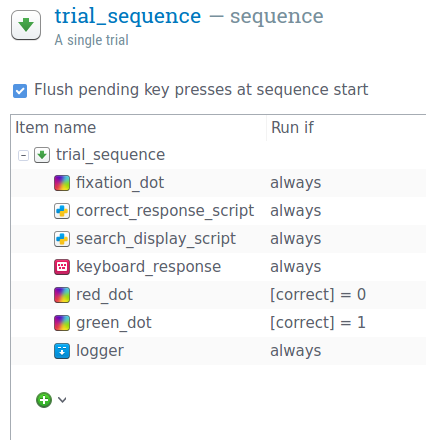
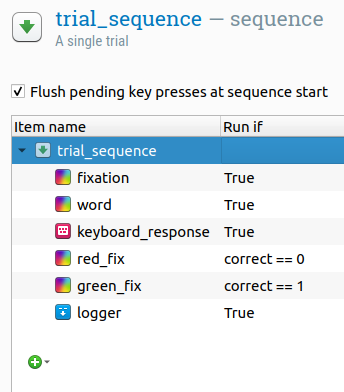
First updates for 4.0.0

Changed region(s): [[0.0291, 0.1837, 1.0, 0.8265], [0.0291, 0.0, 0.9593, 0.1224], [0.0872, 0.8878, 0.1453, 0.949]]

diff --git a/content/pages/manual/variables.md b/content/pages/manual/variables.md
@@ -6,9 +6,9 @@ title: Variables
 
 Experimental variables in OpenSesame are those variables that:
 
-- You can refer to in the user interface with the '[variable_name]' syntax.
-- You can refer to in a Python INLINE_SCRIPT with the `var.variable_name` syntax.
-- You can refer to in a JavaScript INLINE_JAVASCRIPT with the `vars.variable_name` syntax.
+- You can refer to in the user interface with the '{variable_name}' syntax.
+- Are available as global variables in a Python INLINE_SCRIPT.
+- Are available as global variables in a JavaScript INLINE_JAVASCRIPT.
 - Contain things like:
 	- The variables that you have defined in a LOOP item.
 	- The responses that you have collected.
@@ -90,15 +90,16 @@ Feedback variables maintain a running average of accuracy and response times.
 |`accuracy`						|The average percentage of correct responses. This is variable is useful for presenting feedback to the participant.|
 |`acc`							|Synonym for `accuracy`|
 
+
 ## Using variables in the user interface
 
-Wherever you see a value in the user interface, you can replace that value by a variable using the '[variable name]' notation. For example, if you have defined a variable `soa` in a LOOP item, you can use this variable for the duration of a sketchpad as shown in %FigSketchpad.
+Wherever you see a value in the user interface, you can replace that value by a variable using the '{variable name}' notation. For example, if you have defined a variable `soa` in a LOOP item, you can use this variable for the duration of a sketchpad as shown in %FigSketchpad.
 
 %--
 figure:
  id: FigSketchpad
  source: variable-duration.png
- caption: The duration '[soa]' indicates that the duration of the SKETCHPAD depends on the variable `soa`.
+ caption: The duration '{soa}' indicates that the duration of the SKETCHPAD depends on the variable `soa`.
 --%
 
 This works throughout the user interface. For example, if you have the defined a variable `my_freq`, you can use this variable as the frequency in a SYNTH item, as shown in %FigSynth.
@@ -107,7 +108,7 @@ This works throughout the user interface. For example, if you have the defined a
 figure:
  id: FigSynth
  source: variable-frequency.png
- caption: The frequency '[my_freq]' indicates that the frequency of the SYNTH depends on the variable `my_freq`.
+ caption: The frequency '{my_freq}' indicates that the frequency of the SYNTH depends on the variable `my_freq`.
 --%
 
 Sometimes, the user interface doesn't let you type in arbitrary text. For example, the elements of a SKETCHPAD are shown visually, and you cannot directly change an X coordinate to a variable. However, you can click on the *Select view → View script* button on the top right, and edit the script directly.
@@ -121,44 +122,72 @@ draw fixdot x=0 y=0
 … to a position defined by the variables `xpos` and `ypos`:
 
 ```text
-draw fixdot x=[xpos] y=[ypos]
-```text
+draw fixdot x={xpos} y={ypos}
+```
+
+
+## Using Python expressions in the user interface
+
+When referring to variables using the `{my_var}` notation, you are in fact using a so-called [f-string](https://peps.python.org/pep-0498/), which is a way to embed Python code in strings of text. You can also use f-strings to evaluate arbitrary Python code. For example, you can multiply the variables `width` and `height` and include the result in a SKETCHPAD, like so:
+
+%--
+figure:
+ id: FigFString
+ source: fstrings.png
+ caption: You can embed Python expressions using f-strings.
+--%
+
+f-strings are Python code, and are therefore only supported on the desktop, but see below for a JavaScript alternative for browser experiments.
+
+
+## Using JavaScript expressions in the user interface
+
+When using OSWeb, expressions included between curly braces are interpreted as [template literals](https://developer.mozilla.org/en-US/docs/Web/JavaScript/Reference/Template_literals). This is very similar to f-strings in Python, with the important difference that it uses JavaScript.
+
+In normal JavaScript, expressions inside template literals are prefixed with a `$`, like so: `${expression}`. This is allowed in OpenSesame but not necessary: the prefix is automatically added to improve compatibility between browser and desktop experiments. In most cases, as in the figure below, the exact same expression is valid as a Python f-string on the desktop and a JavaScript template literal in the browser.
+
+
+%--
+figure:
+ id: FigTempalteLiteral
+ source: template-literals.png
+ caption: You can embed JavaScript expressions using template literals.
+--%
+
 
 ## Using variables in Python
 
-In an INLINE_SCRIPT, you can access experimental variables through the `var` object. For example, if you have defined `example_variable` in a LOOP, then the following will print the value `example_variable` to the debug window:
+In an INLINE_SCRIPT, experimental variables are available as global variables. For example, if you have defined `example_variable` in a LOOP, then the following will print the value `example_variable` to the debug window:
 
 ~~~ .python
-print(var.example_variable)
+print(example_variable)
 ~~~
 
 You can set the experimental variable `example_variable` to the value 'some value' as follows:
 
 ~~~ .python
-var.example_variable = 'some value'
+example_variable = 'some value'
 ~~~
 
-For more information, see:
-
-- %link:manual/python/var%
 
 ## Using variables in JavaScript
 
-In an INLINE_JAVASCRIPT, you can access experimental variables through the `vars` object. For example, if you have defined `example_variable` in a LOOP, then the following will print the value `example_variable` to the debug window:
+In an INLINE_JAVASCRIPT, experimental variables are available as global variables. For example, if you have defined `example_variable` in a LOOP, then the following will print the value `example_variable` to the browser console:
 
 ```js
-console.log(vars.example_variable)
+console.log(example_variable)
 ```
 
 You can set the experimental variable `example_variable` to the value 'some value' as follows:
 
 ```js
-vars.example_variable = 'some value'
+example_variable = 'some value'
 ```
+
 
 ## Using conditional ("if") statements
 
-Conditional statements, or 'if statements', provide a way to indicate that something should happen only under specific circumstances, such when some variable has a specific value.
+Conditional statements, or 'if statements', provide a way to indicate that something should happen only under specific circumstances, such when some variable has a specific value. Conditional statements are regular Python expressions.
 
 The most commonly used if-statement in OpenSesame is the run-if statement of the SEQUENCE, which allows you to specify the conditions under which a particular element is executed. If you open a SEQUENCE item, you see that every item from the sequence has a 'Run if …'' option. The default value is 'always', which means that the item is always run; but you can also enter a condition here. For example, if you want to show a green fixation dot after a correct response, and a red fixation dot after an incorrect response, you can create a SEQUENCE like the following (this makes use of the fact that a KEYBOARD_RESPONSE item automatically sets the `correct` variable, as discussed above) as shown in %FigRunIf.
 
@@ -174,20 +203,12 @@ figure:
 
 You can use more complex conditions as well. Let's take a look at a few examples:
 
-	[correct] = 1 and [response_time] > 2000
-	[correct] != 1 or [response_time] > [max_response_time] or [response_time] < [min_response_time]
+```python
+correct = 1 and response_time > 2000
+correct != 1 or response_time > max_response_time or response_time < min_response_time
+```
 
-Variables are not typed and putting quotes around a value is only necessary if a value contains spaces (but always permitted).
-
-Alternatively, you can use Python code in your conditional statements. To indicate that you are using Python code instead of the OpenSesame syntax (as above), prepend an `=` character to your conditional statement, like so:
-
-~~~ .python
-=var.correct == 0
-~~~
-
-You cannot use the square-bracket syntax when using Python code. Instead, you use the `var` object to retrieve a variable, like you would in an ordinary INLINE_SCRIPT.
-
-The same principle applies to 'Show if' fields in SKETCHPAD items. For example, if you want to draw a leftwards arrow only if the variable `cue` has been set to 'right', simply type the proper condition in the 'Show if ...' field and draw the arrow, as in %FigShowIf. Make sure that you draw the arrow after you have set the condition.
+The same principle applies to 'Show if' fields in SKETCHPAD items. For example, if you want to draw a right-upwards-pointing arrow only if the variable `quadrant` has been set to 'upper right', simply type the proper condition in the 'Show if ...' field and draw the arrow, as in %FigShowIf. Make sure that you draw the arrow after you have set the condition.
 
 %--
 figure:
@@ -199,23 +220,3 @@ figure:
 Important: The moment at which a conditional statement is evaluated may affect how your experiment works. This is related to the prepare-run strategy employed by OpenSesame, which is explained here:
 
 - %link:prepare-run%
-
-## Smart variable typing (and some pitfalls)
-
-You don't need to indicate whether the type of your variable is a string, integer (a whole number, such as 1), or floating point (a decimal number, such as 1.1). Instead, OpenSesame selects a variable type automatically, according to the following logic:
-
-- If a value is *numeric and integer*, it is treated as an integer. An example is the value *10*.
-- If a value is *numeric, but not integer*, it is treated as a float. An example is the value *0.1*.
-- Python 2: If a value is *bytes* then it is decoded to *str* assuming utf-8 encoding.
-- Python 3: If a value is *str* then it is decoded to *unicode* assuming utf-8 encoding.
-- All other values are left as is.
-
-The reason for this smart typing is convenience: You can compare one value that looks like a number to another value that looks like a number, without needing to explicitly indicate that the variables are numbers, and not strings. However, in some cases, smart typing can lead to unpredictable behavior.
-
-The most important pitfall is that text may unintentionally become numeric. For example, if a variable is set to a `str` that can be converted to an integer, it will automatically become an `int`, and no longer be equal to the `str` that it was set to:
-
-~~~ .python
-var.l = '0'
-print(var.l == '0') # will print False
-print(var.l == 0) # will print True
-~~~

diff --git a/content/pages/download.md b/content/pages/download.md
@@ -41,7 +41,7 @@ The latest $status$ version is $version$ *$codename$*, released on $release-date
 
 ### Windows
 
-The standard download is based on Python 3.7 for 64 bit systems. The installer and `.zip` packages are identical, except for the installation. Most people download the installer package (green button).
+The Windows package is based on Python 3.11 for 64 bit systems. The installer and `.zip` packages are identical, except for the installation. Most people download the installer package (green button).
 
 <a role="button" class="btn btn-success btn-align-left" onclick="startDownload('$url-windows-exe-py3$')">
 	<b>Standard</b> Windows installer (.exe)
@@ -51,18 +51,11 @@ The standard download is based on Python 3.7 for 64 bit systems. The installer a
 	<b>Standard</b> Windows no installation required (.zip)
 </a>
 
-The Megapack is identical to the standard Python 3.7 download above, except that it comes with a large number of libraries for scientific computing pre-installed. The Megapack also includes advanced support for JavaScript (code completion, syntax checking, etc.).
-
-<a role="button" class="btn btn-default btn-align-left" onclick="startDownload('$url-windows-exe-py3-megapack$')">
-	<b>Megapack</b> Windows installer (.exe)
-</a>
-
-<a role="button" class="btn btn-default btn-align-left" onclick="startDownload('$url-windows-zip-py3-megapack$')">
-	<b>Megapack</b> Windows no installation required (.zip)
-</a>
-
 
 ### Mac OS
+
+There are currently no prerelease packages of OpenSesame 4.0 for Mac OS. Please use conda or pip.
+{: .page-notification}
 
 [This article](https://support.apple.com/en-in/guide/mac-help/mh40616/mac) on the Mac OS support site explains how to override the security settings of Mac OS that will by default prevent OpenSesame from launching.
 
@@ -81,19 +74,66 @@ brew install --cask opensesame
 
 ### Ubuntu
 
-OpenSesame 3.3 is available through the [Cogscinl PPA](https://launchpad.net/~smathot/+archive/cogscinl). Packages are developed and tested on Ubuntu 22.04 Jammy Jellyfish. To add this repository to your software sources and install OpenSesame, run the following commands in a terminal:
+Packages are developed and tested on Ubuntu 22.04 Jammy Jellyfish. Packages are only available for 22.04 and 22.10.
+
+If you have OpenSesame 3.X installed, first deinstall all packages . This is required to avoid package conflicts due to slight renaming of some packages in OpenSesame 4.0.
 
 ```bash
-sudo add-apt-repository ppa:smathot/cogscinl  # For stable releases
-sudo add-apt-repository ppa:smathot/rapunzel  # For development releases
-sudo apt update
-sudo apt install python3-opensesame
+# If necessary: uninstall OpenSesame 3.X
+sudo apt remove python3-opensesame python3-pyqode.python python3-pyqode.core python3-rapunzel python3-opensesame-extension* python3-opensesame-plugin*
+```
+
+Next, to add the required repositories to your software sources and install OpenSesame (and Rapunzel), run the following commands in a terminal:
+
+```bash
+# Add repository for stable packages
+sudo add-apt-repository ppa:smathot/cogscinl
+# Add repository for development packages
+sudo add-apt-repository ppa:smathot/milgram
+# Install basic OpenSesame 4.X packages
+sudo apt install python3-opensesame python3-rapunzel
+# Add eye-tracking support
+sudo apt install python3-pygaze
+# PyGame is needed for the legacy and xpyriment backends
+sudo apt install python3-pygame
+# experimental language server support
+sudo apt install python3-opensesame-extension-language_server
 ```
 
 Some commonly used packages are not available through the PPA. You can install them through `pip`:
 
 ```bash
-pip install psychopy expyriment pyspellchecker fastnumbers js2py
+# Install optional packages that are only available through pip
+pip install opensesame-extension-osweb opensesame-plugin-psychopy opensesame-plugin-media_player_mpy http://files.cogsci.nl/expyriment-0.10.0+opensesame2-py3-none-any.whl
+```
+
+PsychoPy is best installed through pip, because the Ubuntu package is currently broken. 
+
+```bash
+# Install psychopy
+pip install psychopy psychopy_sounddevice python-bidi arabic_reshaper
+```
+
+
+### PyPi (crossplatform)
+
+All packages can be pip-installed:
+
+```bash
+pip install --pre opensesame rapunzel opensesame-extension-osweb opensesame-plugin-psychopy opensesame-plugin-media_player_mpy
+pip install psychopy psychopy_sounddevice pygame http://files.cogsci.nl/expyriment-0.10.0+opensesame2-py3-none-any.whl https://github.com/smathot/PyGaze/releases/download/prerelease%2F0.8.0a3/python_pygaze-0.8.0a3-py3-none-any.whl
+```
+
+Once you have installed all packages, you can simply run OpenSesame by (after having activated the correct environment) running:
+
+```bash
+opensesame
+```
+
+Or for the Rapunzel code editor:
+
+```bash
+rapunzel
 ```
 
 
@@ -110,13 +150,13 @@ Next, add the relevant channels (`cogsci`) and (`conda-forge`) and install all r
 
 ```bash
 conda config --add channels cogsci --add channels conda-forge
-conda install opensesame opensesame-extension-osweb opensesame-plugin-psychopy psychopy rapunzel python-pygaze
+conda install opensesame opensesame-extension-osweb opensesame-plugin-psychopy psychopy rapunzel
 ```
 
 Some packages are not available through conda. You can use `pip install` for these.
 
 ```bash
-pip install soundfile pygame yolk3k opensesame-extension-osf python-qtpip http://files.cogsci.nl/expyriment-0.10.0+opensesame2-py3-none-any.whl
+pip install soundfile pygame http://files.cogsci.nl/expyriment-0.10.0+opensesame2-py3-none-any.whl https://github.com/smathot/PyGaze/releases/download/prerelease%2F0.8.0a3/python_pygaze-0.8.0a3-py3-none-any.whl
 ```
 
 Once you have installed all packages, you can simply run OpenSesame by (after having activated the correct environment) running:
@@ -136,12 +176,12 @@ rapunzel
 
 Older versions can be downloaded from GitHub releases:
 
-- <https://github.com/smathot/OpenSesame/releases>
+- <https://github.com/open-cogsci/OpenSesame/releases>
 
 
 ### Source code
 
-The source code of OpenSesame is available on [GitHub](https://github.com/smathot/OpenSesame).
+The source code of OpenSesame is available on [GitHub](https://github.com/open-cogsci/OpenSesame).
 
 
 ## Tips
@@ -149,7 +189,7 @@ The source code of OpenSesame is available on [GitHub](https://github.com/smatho
 
 ### Which version of Python to use?
 
-OpenSesame is currently built and tested with Python 3.7.6. Newer versions of Python 3 work but are not extensively tested. Python 2 is no longer supported. The last release that included a Python 2 package was 3.3.12, which can still be downloaded from the [release archive](https://github.com/open-cogsci/OpenSesame/releases/tag/release%2F3.3.12).
+OpenSesame is currently built and tested with Python 3.11.0. Others versions of Python >=3.7 work but are not extensively tested. Python 2 is no longer supported. The last release that included a Python 2 package was 3.3.12, which can still be downloaded from the [release archive](https://github.com/open-cogsci/OpenSesame/releases/tag/release%2F3.3.12).
 
 
 ### When (not) to update?
@@ -161,8 +201,9 @@ OpenSesame is currently built and tested with Python 3.7.6. Newer versions of Py
 
 ### Manually upgrading packages
 
-- OpenSesame is a regular Python environment, and you can upgrade packages with `pip` or `conda` as described here:
-	- <https://rapunzel.cogsci.nl/manual/environment/>
+OpenSesame is a regular Python environment, and you can upgrade packages with `pip` or `conda` as described here:
+
+- <https://rapunzel.cogsci.nl/manual/environment/>
 
 
 ### Tips for system administrators

diff --git a/content/pages/notes/4.0.0.md b/content/pages/notes/4.0.0.md
@@ -5,7 +5,7 @@ title: Release notes for 3.3.14
 
 ## Backwards incompatible changes
 
-- Logging of variables has changed slightly. Specifically, variables that are defined in the user interface, such as columns in a `loop` table or explicitly selected variables in a `logger`, are always logged. Variables that are defined in an `inline_script` or `inline_javascript` are only logged if they are numbers (`int` and `float`), strings (`str` and`bytes`), and `None` values. This is to avoid log files from becoming unreasonably large due to logging of long lists and other large values.
+- Logging of variables has changed slightly. Specifically, variables that are defined in the user interface, such as columns in a `loop` table or explicitly selected variables in a `logger`, are always logged. Variables that are defined in an `inline_script` or `inline_javascript` are only logged if they are numbers (`int` and `float`), strings (`str` and `bytes`), and `None` values. This is to avoid log files from becoming unreasonably large due to logging of long lists and other large values.
 - The content of `<script>` tags in `inline_html` items is not evaluated. This is no longer necessary, because you can simply refer to experimental variables as you would elsewhere in JavaScript.
 - Conditional expressions are only interpreted as OpenSesame script if they contain variable references using the square-bracket notation or the words 'always' or 'never'. Otherwise they are interpreted as Python code as described below.
   

diff --git a/content/pages/tutorials/beginner.md b/content/pages/tutorials/beginner.md
@@ -2,8 +2,6 @@ title: Beginner tutorial: gaze cuing
 
 [TOC]
 
-%-- include: include/ads-inpage.md --%
-
 ## About OpenSesame
 
 OpenSesame is a program for easy of development of behavioral experiments for psychology, neuroscience, and experimental economy. For beginners, OpenSesame has a comprehensive graphical, point-and-click interface. For advanced users, OpenSesame supports Python scripting (not covered in this tutorial).

diff --git a/content/pages/notes/notes.md b/content/pages/notes/notes.md
@@ -1,5 +1,6 @@
 title: Release notes
 
+- [4.0.0](%url:notes%/../400)
 - [3.3.14](%url:notes%/../3314)
 - [3.3.13](%url:notes%/../3313)
 - [3.3.12](%url:notes%/../3312)
